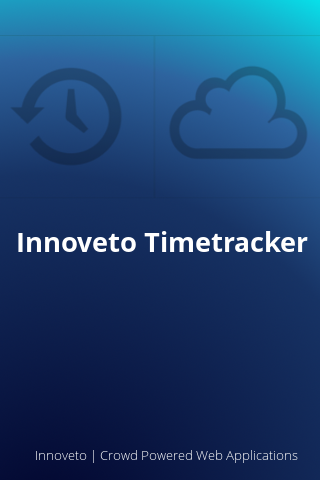
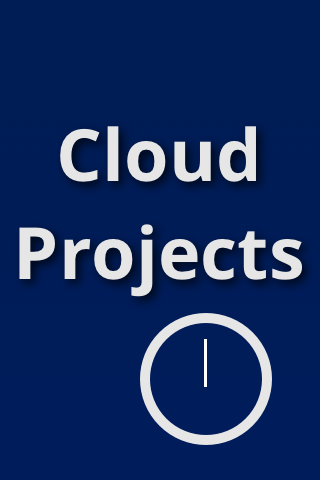
Tutorial slider & iphone splash screen

diff --git a/Resources/home.js b/Resources/home.js
@@ -21,26 +21,45 @@ var view = Titanium.UI.createView({
 // Add our scrollview to the window
 win.add(view);
 
-var homeText = Titanium.UI.createTextArea({
-  editable: '0',
-  text:'Welcome message',
-  value: 'Welcome to timetracking app.\nYou can log in or register a new account.',
-  font:{fontSize:18, fontWeight: "light"},
-  color: 'white',
-  left:10,
-  top:40,
-  width:300,
-  height:'auto',
-  backgroundColor: 'transparent',
+var tutorialFlow = Titanium.UI.createImageView({
+    image:'images/tut1.png',
+    width: "100%",
+  	height: "100%"
+    
 });
+view.add(tutorialFlow);
 
-view.add(homeText);
+function imageLoop(i){
+	if(i<=3) {
+		Ti.API.info(i);
+		setTimeout(function(){
+        		tutorialFlow.image = 'images/tut'+i+'.png'; 
+        		i=i+1;
+        		imageLoop(i);
+        		var slide_in =  Titanium.UI.createAnimation({left:115});
+        	//	tutorialFlow.animate(slide_in);
+      	}, 4000);
+      //	tutorialFlow.left = -100;
+	}
+	if(i==4) {
+	      	i=1;
+	      	imageLoop(i);
+	}
+}
+
+i=2;
+
+	imageLoop(i);
+
+
 
 var loginButton = Titanium.UI.createButton({
   title:'Login',
   height:40,
-  width:250,
-  top:140
+  width:120,
+  left: 30,
+  bottom:20,
+  style: Titanium.UI.iPhone.SystemButtonStyle.BORDERED
 });
 
 view.add(loginButton);
@@ -69,8 +88,9 @@ loginButton.addEventListener('click', function() {
 var registerButton = Titanium.UI.createButton({
   title:'Register',
   height:40,
-  width:250,
-  top:200
+  width:120,
+  right:30,
+  bottom:20
 });
 
 view.add(registerButton);
